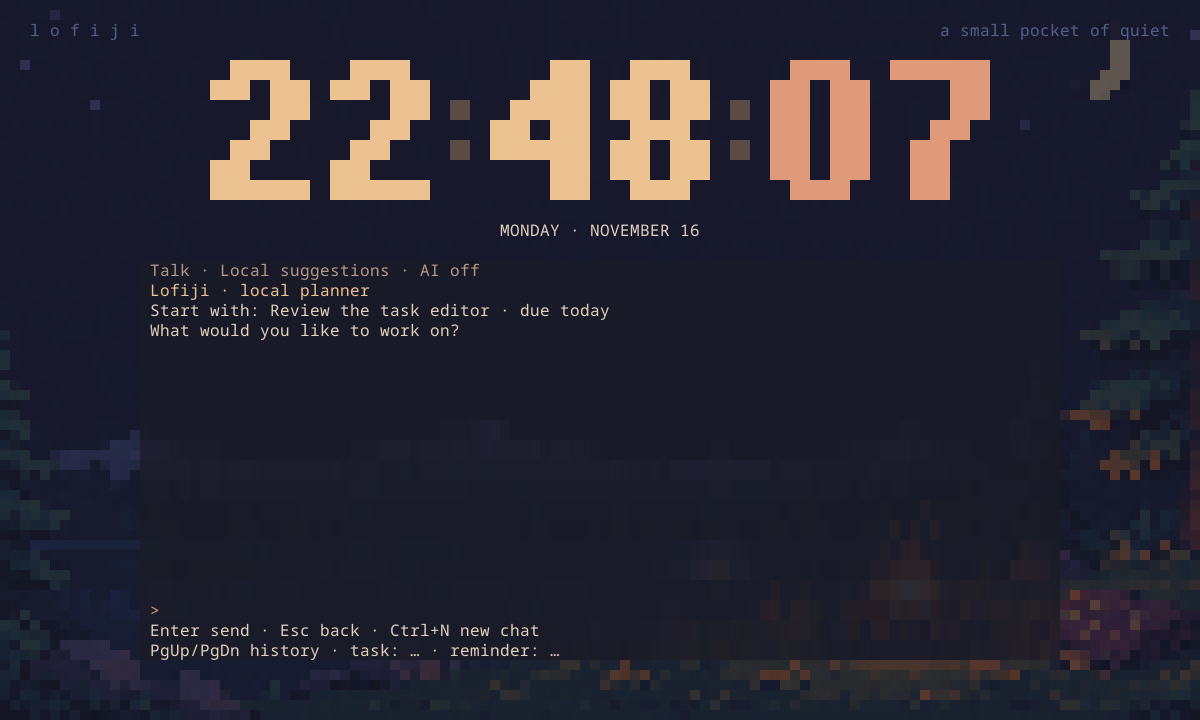
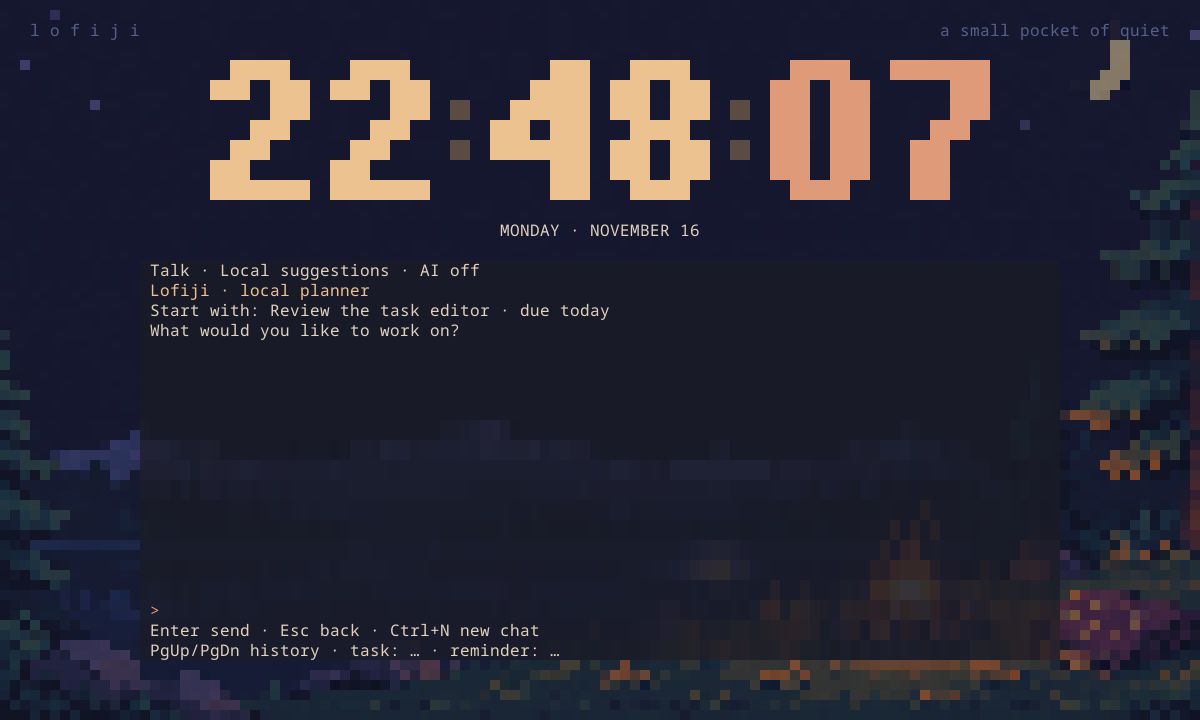
Refresh README and Lofiji screenshots

diff --git a/tools/preview_scenes.py b/tools/preview_scenes.py
@@ -16,29 +16,38 @@ def main():
     parser.add_argument('--output', type=Path, default=ROOT/'docs')
     args=parser.parse_args();args.output.mkdir(parents=True,exist_ok=True)
     with tempfile.TemporaryDirectory(prefix='lofiji-previews-') as tmp:
-        def render(scene='window', mode='clock', weather='clear', size='120x36', elapsed=8, style='pixel', palette=0):
+        def render(scene='window', mode='clock', weather='clear', size='120x36', elapsed=8,
+                   style='pixel', palette=0, workspace=True, brightness=30,
+                   opacity=75, volumes=None):
             path=Path(tmp)/'frame.svg'
             config=Path(tmp)/'config.toml'
             example = (ROOT/'config.example.toml').read_text()
             config_text = example.replace('clock_style = "pixel"', f'clock_style = "{style}"')
             config_text = config_text.replace('clock_palette = 0', f'clock_palette = {palette}')
-            if scene == 'rain-room' and mode == 'clock':
-                config_text = config_text.replace('show_plan = true', 'show_plan = false')
-                config_text = config_text.replace('image_brightness = 30', 'image_brightness = 60')
+            config_text = config_text.replace('show_plan = true', f'show_plan = {str(workspace).lower()}')
+            config_text = config_text.replace('image_brightness = 30', f'image_brightness = {brightness}')
+            config_text = config_text.replace('dashboard_opacity = 75', f'dashboard_opacity = {opacity}')
+            if volumes is not None:
+                start = config_text.index('sound_volumes = [')
+                end = config_text.index(']', start)
+                config_text = config_text[:start] + f'sound_volumes = {volumes}' + config_text[end + 1:]
             config.write_text(config_text)
             subprocess.run([str(args.binary),'--config',str(config),'--snapshot',size,'--at','2026-11-16T22:48:07','--mode',mode,'--background',scene,'--weather',weather,'--elapsed',str(elapsed),'--output',str(path)],check=True)
             return Image.open(io.BytesIO(subprocess.check_output(['rsvg-convert',str(path)]))).convert('RGB')
-        names=[('window','Rainy window · GIF'),('city','Moonlit city'),('forest','Quiet forest'),('snow','Snow mountains'),('bonfire','Bonfire'),('rain-room','Rain Room'),('image','Custom PNG / GIF')]
+        names=[('window','Rainy window · GIF'),('city','Moonlit city'),('forest','Quiet forest'),('snow','Snow mountains'),('bonfire','Bonfire'),('rain-room','Rain Room')]
         gallery=Image.new('RGB',(1200,((len(names)+1)//2)*390),'#1a1b26')
         font=ImageFont.truetype(subprocess.check_output(['fc-match','-f','%{file}','DejaVu Sans Mono'],text=True),15)
         for i,(scene,label) in enumerate(names):
-            image=render(scene, style='round' if scene == 'rain-room' else 'pixel')
+            image=render(scene, style='round' if scene == 'rain-room' else 'pixel',
+                         workspace=False, brightness=60 if scene == 'rain-room' else 50)
             image.save(args.output/f'{scene}.png')
             x=(i%2)*600;y=(i//2)*390
             gallery.paste(image.resize((600,360),Image.Resampling.NEAREST),(x,y+25))
             ImageDraw.Draw(gallery).text((x+12,y+4),label,font=font,fill='#c0caf5')
         gallery.save(args.output/'scenes.png')
-        render('rain-room', style='digital', palette=7).save(args.output/'rain-room-glass.png')
+        render('rain-room', style='digital', palette=7, workspace=False,
+               brightness=60).save(args.output/'rain-room-glass.png')
+        render('image').save(args.output/'image.png')
         motion=[]
         for t in range(48):
             grid=Image.new('RGB',(960,624),'#1a1b26')
@@ -51,16 +60,19 @@ def main():
         motion[0].save(args.output/'scene-motion.gif',save_all=True,append_images=motion[1:],duration=500,loop=0,disposal=1)
 
         export_styles(args.binary.resolve(), args.output)
-        render(mode='focus').save(args.output/'pomodoro.png')
+        render('city', mode='focus', workspace=False, brightness=48,
+               style='digital', elapsed=537).save(args.output/'pomodoro.png')
         render(size='60x17').save(args.output/'compact.png')
         render(mode='settings').save(args.output/'settings.png')
-        render(mode='sounds').save(args.output/'sounds.png')
-        render('bonfire',mode='plan').save(args.output/'plan.png')
+        render('rain-room', mode='sounds', brightness=55,
+               volumes=[0, 16, 0, 0, 0, 0, 0, 0, 0, 0, 28]).save(args.output/'sounds.png')
+        render('rain-room', mode='plan', style='round', brightness=56,
+               opacity=62).save(args.output/'plan.png')
         render('bonfire',mode='plan',size='80x24').save(args.output/'plan-medium.png')
         render('bonfire',mode='plan',size='60x17').save(args.output/'plan-compact.png')
         render('bonfire',mode='goals').save(args.output/'goals.png')
         render('bonfire',mode='character').save(args.output/'character.png')
-        render('bonfire',mode='conversation').save(args.output/'conversation.png')
+        render('bonfire', mode='conversation', brightness=48).save(args.output/'conversation.png')
         render('bonfire',mode='ai_settings').save(args.output/'ai-settings.png')
         frames=[render(weather='rain',elapsed=t/4) for t in range(32)]
         frames[0].save(args.output/'rain.gif',save_all=True,append_images=frames[1:],duration=250,loop=0,disposal=2)

diff --git a/README.md b/README.md
@@ -2,25 +2,26 @@
 
 **A small pocket of quiet for your terminal.**
 
-Lofiji is a Linux desk clock with lofi pixel-art scenes, a Pomodoro timer, and a small space for deciding what to do next. It’s built for people who spend much of their day in a terminal and want the time, their next task, and a little atmosphere in the same window.
+Lofiji is a Linux terminal desk clock with animated pixel-art scenes. Leave it open for the time and a little atmosphere, or use the workspace beneath the clock to plan your next step and start a focus session.
 
 **Work in progress.** The core clock and workspace are usable. Expect the interface and setup to evolve.
 
-![Lofiji showing the clock, character reminders, tasks, and objectives against a pixel-art bonfire](docs/plan.png)
+![Lofiji showing a large clock above character reminders, tasks, and objectives in the Rain Room scene](docs/plan.png)
 
 ## What you can do with it
 
 | If you’re… | Try this |
 | --- | --- |
-| **Studying or writing** | Open Pomodoro with **p**, start a focus session with **Space**, and mix a little rain or café noise with **a**. |
-| **Juggling a project and a deadline** | Capture a task with **+**, press **Tab** to add a description, and manage goals and deadlines with **g**. Lofiji puts overdue and due-today work near the top. |
+| **Studying or writing** | Open Pomodoro with **p** and start with **Space**. To focus on a specific task, select it under **g** and press **F**. When the session ends, press **y** to complete the task or **Esc** to keep it open. |
+| **Juggling a project and a deadline** | Capture a task with **+** and press **Tab** for a description. The dashboard puts overdue and due-today tasks first, wraps long titles, and lists active short- and long-term goals. Scroll with **↑/↓**. |
 | **Building a habit** | Use **h** to keep a short character reminder in sight, such as “Listen before responding.” Pause it when it no longer needs your attention. |
 | **Looking for a next step** | Open **Talk** with **c** for local guidance or optional AI chat. With a provider connected, **d** asks for one concrete first action on your top pending task and may suggest a relevant app shortcut. |
-| **Keeping a clock on a second screen** | Press **v** for clock-only view. Cycle pixel-art scenes with **b** and clock styles with **t**. You can also use your own PNG or GIF. |
+| **Setting the mood** | Press **a** to mix ambience and **v** inside the mixer to audition it. Keys **1–3** load Hearth, Café, or Forest. Volume changes keep the loops playing, and **Esc** restores the previous mix. |
+| **Keeping a clock on a second screen** | Press **v** on the clock screen for clock-only view. Cycle scenes with **b** or clock styles with **t**. Preview palettes, brightness, and dashboard opacity in **Settings → Appearance**. Custom PNGs and GIFs are supported. |
 
 The clock, bundled scenes, timer, and planner work offline. Ambient loops work offline with **mpv**. YouTube playback is optional and requires **mpv**, **yt-dlp**, and **Node.js**.
 
-![Rainy terminal clock with a running Pomodoro focus timer](docs/pomodoro.png)
+![A seven-segment clock above a running Pomodoro countdown in the Moonlit City scene](docs/pomodoro.png)
 
 [Scene gallery](docs/scenes.png) · [Rain Room](docs/rain-room.png) · [Compact view](docs/plan-compact.png) · [Sound mixer](docs/sounds.png) · [Talk view](docs/conversation.png)
 
@@ -34,13 +35,13 @@ cd lofiji
 cargo run --release --locked
 ```
 
-Press **?** for shortcuts and **s** for settings. The [user guide](docs/usage.md) covers customization, audio, and optional launch at desktop login.
+Press **?** for shortcuts and **s** for settings. Save settings with **Ctrl+S**. The user guide covers customization, audio, and optional launch at desktop login. [User guide](docs/usage.md)
 
 ## Optional AI
 
 Lofiji supports **ChatGPT plan sign-in**, **OpenAI API**, **Anthropic Claude**, **Google Gemini**, **Ollama**, **OpenRouter**, and **OpenAI-compatible endpoints**. Choose one under **Settings → AI**. For Claude or Gemini, enter a model ID available to your account and supply the API key through an environment variable. [AI setup and provider requirements](docs/ai.md)
 
-AI starts off. Goals, tasks, and reminders are saved locally. When you use a cloud model, Lofiji sends relevant planner entries and recent chat as context. Model replies can suggest actions, and you decide what to save.
+AI starts off. Goals, tasks, and reminders are saved locally. A daily suggestion can run while you chat, and **Ctrl+K** cancels the current chat reply. Cloud requests include relevant planner entries, including task descriptions. Talk also sends recent chat. You decide which suggested changes to save.
 
 ## Development
 
